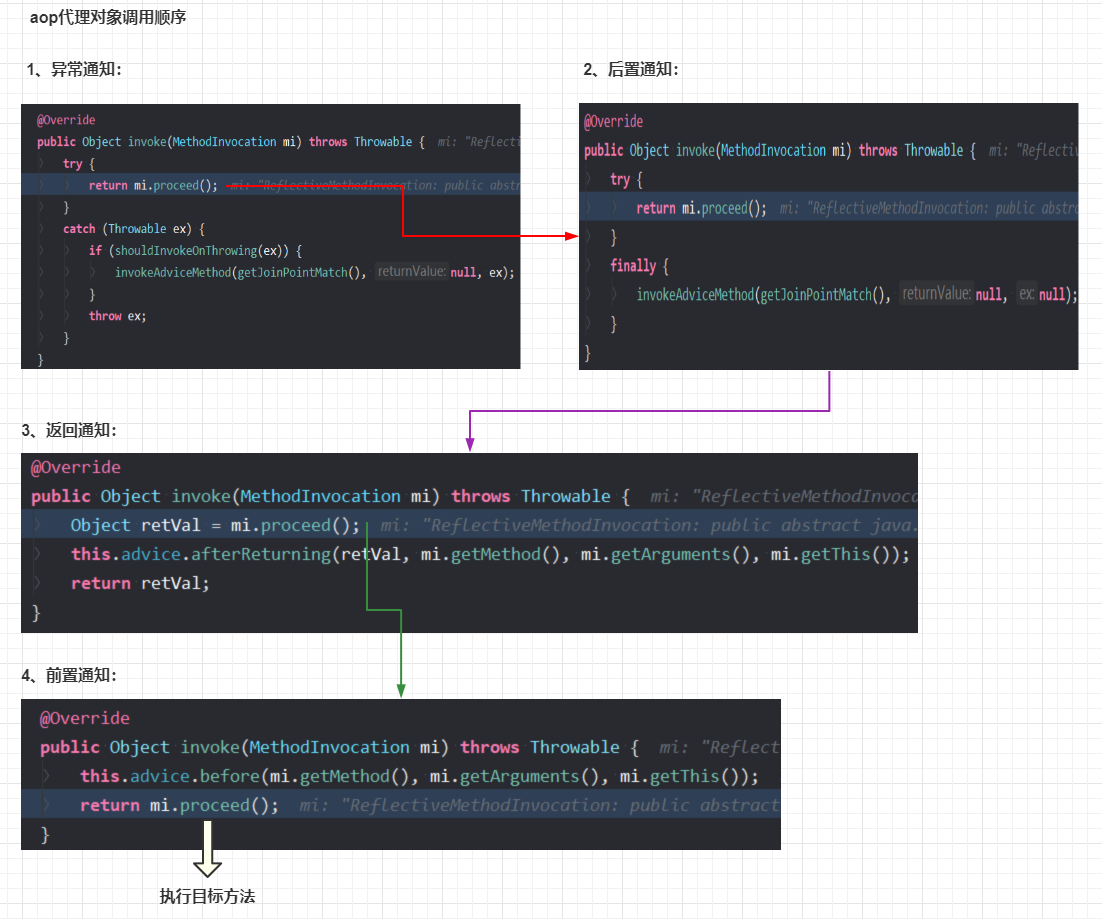
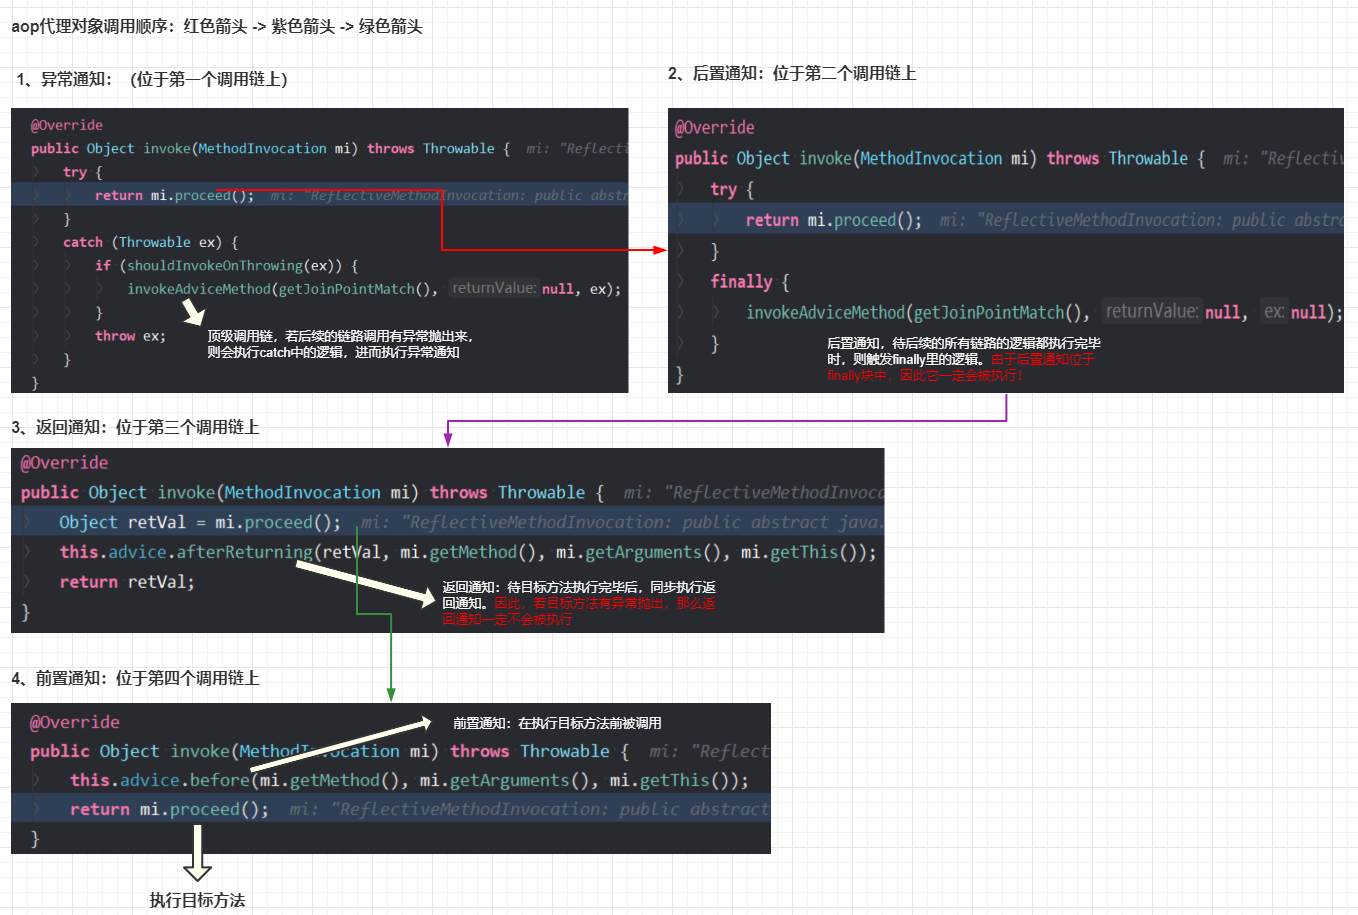
Spring aop原理篇 完结

Changed region(s): [[0.0, 0.0, 1.0, 1.0]]

diff --git a/spring aop相关知识点总结/spring aop原理篇：了解spring是如何将切面织入到目标方法 以及aop的执行顺序/README.md b/spring aop相关知识点总结/spring aop原理篇：了解spring是如何将切面织入到目标方法 以及aop的执行顺序/README.md
@@ -5,10 +5,12 @@
 * 在上篇文章[spring aop使用篇：熟悉使用前置通知、后置通知、返回通知、异常通知，并了解其特性](1)中我们知道了如何使用aop以及其的一些特性，同时还提出来的如下所述的疑问点：
 
   > 1、源码中是如何将我们定义的各种通知与目标方法绑定起来的  --> 若想急切知道答案，可直接看1.3章节
-  > 2、我们的aop代理对象的执行顺序是怎样的 
-  > 3、aop代理对象生成的策略   --> 若想急切知道答案，可直接看1.4章节
-
-  接下来，我们继续以上篇文章的例子为例，从源码的角度来分析这三个点。废话不多说，直接开干！
+  >
+  > 2、aop代理对象生成的策略   --> 若想急切知道答案，可直接看1.4章节
+>
+  > 3、我们的aop代理对象的执行顺序是怎样的 --> 若想急切知道答案，可直接看1.5 章节
+  
+  接下来，我们继续以上篇文章的测试案例为例，从源码的角度来分析这三个点。废话不多说，直接开干！
 
 #### 一、源码中是如何将我们定义的各种通知与目标方法绑定起来的
 
@@ -320,13 +322,15 @@
 
 * 上述`@3`处指定的代码为链路的执行者，表示要开始执行链路上的所以方法了。
 
-* 这个链路的初始化过程和执行过程见下图：
+* 这个链路的模样及执行过程见下图：
 
-  由上述图分析可知，想必大家明白在上篇文章[spring aop使用篇：熟悉使用前置通知、后置通知、返回通知、异常通知，并了解其特性](1)中对有介绍到各种通知的特性有所了解了吧？因为前置通知位于链路的顶端，所以先被执行，而后置通知位于finally代码块中，是一定会被执行的，返回通知是在目标方法执行结束后触发，若其中发生了异常则会跳过返回通知，进入catch中，进而触发异常通知。
+  ![aop代理对象执行顺序.png](aop代理对象执行顺序.png)
+  
+  由上述图分析可知，想必大家明白在上篇文章[spring aop使用篇：熟悉使用前置通知、后置通知、返回通知、异常通知，并了解其特性](1)中对有介绍到各种通知的特性有所了解了吧？首先，方法调用栈是从异常通知开始的，在异常通知中有一个大的try catch块，它能捕获到链路中抛出的异常，进而执行异常通知。其次，后置通知处于第二个链路中，由于内部有try finally块，而在finally块中执行的是后置通知，所以后置通知是一定会被执行的。再其次，返回通知位于第三个链路中，在返回通知中，并没有try finally代码块，因此返回通知不一定会被执行。最后，前置通知位于第四个链路中，其与目标方法的执行是同步的。通过上述的分析可知，只有前置通知是在目标方法执行之前触发的，剩下的后置通知、返回通知、异常通知都要等目标方法执行完毕后再根据代码的逻辑执行不同的通知逻辑。
 
 #### 二、总结
 
-* Spring AOP的原理，从源码的层面出发，从@EnableAspectJAutoProxy注解开始，到生成代理对象以及代理对象的执行顺序都大致总结了一遍，希望对大家有帮助。
+* Spring AOP的原理，从源码的层面出发，从@EnableAspectJAutoProxy注解开始，到生成代理对象以及代理对象的执行顺序都大致总结了一遍。
 
 * **如果你觉得我的文章有用的话，欢迎点赞、收藏和关注。:laughing:**
 * **I'm a slow walker, but I never walk backwards**
